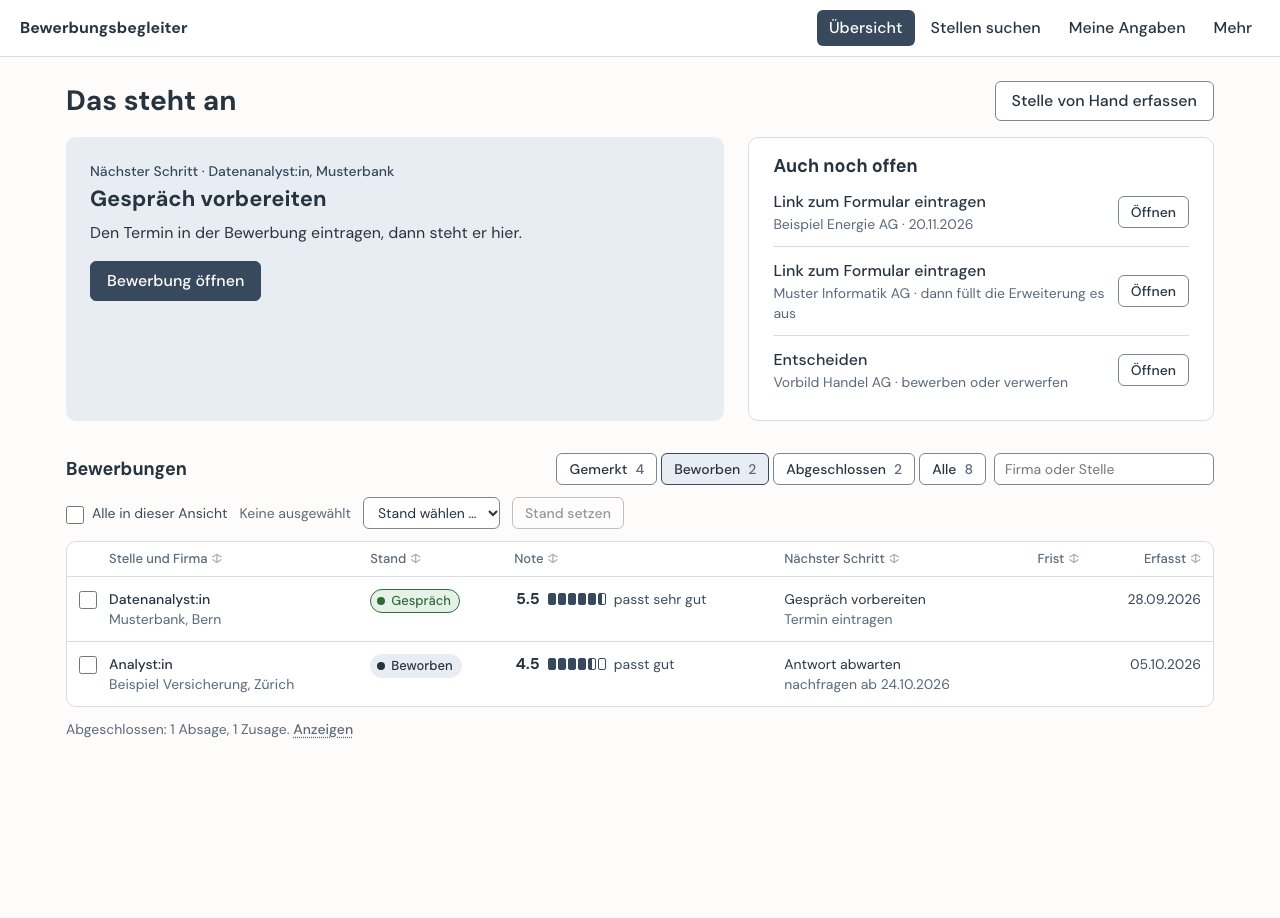
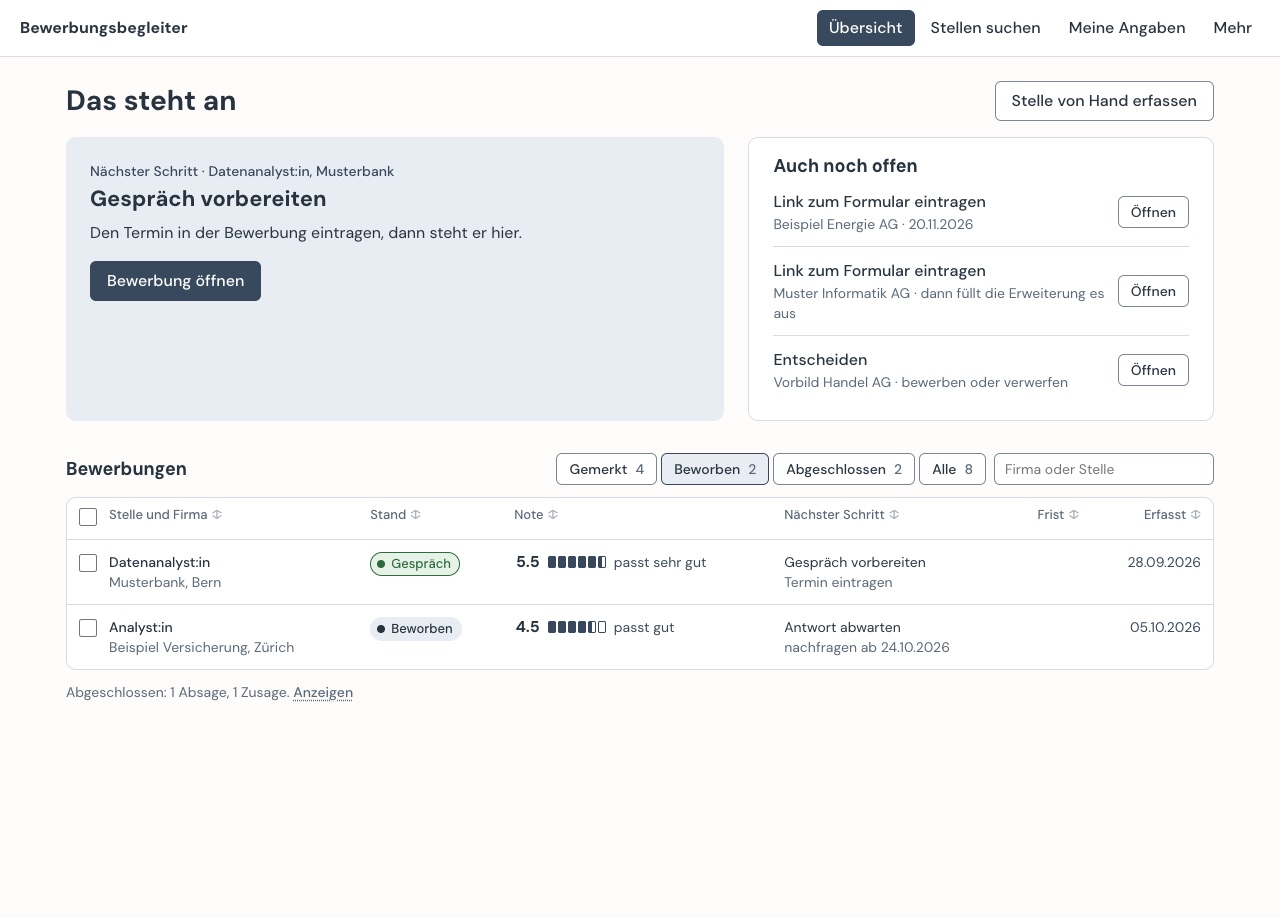
fix(bewerbungen): show only what is due on application, overview [#222] (#166)
Pullboard-Item: #222

diff --git a/bewerbungen/seiten/uebersicht.html b/bewerbungen/seiten/uebersicht.html
@@ -9,7 +9,7 @@
 <link rel="stylesheet" href="/stil.css">
 </head>
 <body>
-<nav class="app-nav" aria-label="Hauptnavigation"><a class="app-nav__brand" href="/">Bewerbungsbegleiter</a><ul class="app-nav__list"><li><a class="app-nav__link" href="/">Übersicht</a></li><li><a class="app-nav__link" href="/treffer" data-text="nav.suche">Stellen suchen</a></li><li><a class="app-nav__link" href="/angaben">Meine Angaben</a></li></ul><details class="app-nav__more"><summary>Mehr</summary><div class="menu"><div class="menu__group"><p class="menu__heading">Suche</p><a href="/firmen" data-text="nav.firmen">Firmen</a></div><div class="menu__group"><p class="menu__heading">Unterlagen</p><a href="/dateien">Meine Dateien</a><a href="/entwuerfe">Entwürfe und Versionen</a><a href="/foto">Foto</a></div><div class="menu__group"><p class="menu__heading">Hilfe</p><a href="/fragen">Fragen an die KI</a><a href="/einrichtung">Einrichtung</a></div><div class="menu__group"><p class="menu__heading">Für Geübte</p><a href="/inhalte">Inhalte als Text</a><a href="/einstellungen">Erweiterte Einstellungen</a></div><div class="menu__group" id="menu-app"></div></div></details></nav>
+<nav class="app-nav" aria-label="Hauptnavigation"><a class="app-nav__brand" href="/">Bewerbungsbegleiter</a><ul class="app-nav__list"><li><a class="app-nav__link" href="/">Übersicht</a></li><li><a class="app-nav__link" href="/treffer" data-text="nav.suche">Stellen suchen</a></li><li><a class="app-nav__link" href="/angaben">Meine Angaben</a></li></ul><details class="app-nav__more"><summary>Mehr</summary><div class="menu"><div class="menu__group"><p class="menu__heading">Suche</p><a href="/firmen" data-text="nav.firmen">Firmen</a></div><div class="menu__group"><p class="menu__heading">Unterlagen</p><a href="/dateien">Meine Dateien</a><a href="/entwuerfe">Entwürfe und Versionen</a><a href="/foto">Foto</a></div><div class="menu__group"><p class="menu__heading">Hilfe</p><a href="/fragen">Fragen an die KI</a></div><div class="menu__group"><p class="menu__heading">Für Geübte</p><a href="/inhalte">Inhalte als Text</a><a href="/einrichtung">Einrichtung</a><a href="/einstellungen">Erweiterte Einstellungen</a></div><div class="menu__group" id="menu-app"></div></div></details></nav>
 <main class="overview">
   <!-- First start: no CV and no application yet -->
   <section id="erststart" class="overview__start" hidden>
@@ -22,7 +22,7 @@
         <p class="next-step__eyebrow">Nächster Schritt</p>
         <h2 class="next-step__title" id="start-titel">Meine Angaben erfassen</h2>
         <p class="next-step__text" data-text="uebersicht.start.karte">Lebenslauf, gesuchte Stellen und wie Sie schreiben. Das dauert etwa 20 Minuten. Sie können jederzeit unterbrechen, nichts geht verloren.</p>
-        <div class="btn-row"><a class="btn btn--primary" href="/angaben">Angaben erfassen</a><a class="btn btn--quiet" href="/dateien">Ich habe schon einen Lebenslauf als PDF</a></div>
+        <div class="btn-row"><a class="btn btn--primary" href="/angaben">Angaben erfassen</a><a class="btn btn--quiet" href="/angaben#feld=unterlagen">Ich habe schon einen Lebenslauf als PDF</a></div>
         <p class="next-step__after" data-text="uebersicht.start.fuss">Ihre Angaben bleiben auf diesem Computer.</p>
       </section>
       <section class="overview__how" aria-labelledby="wie-titel">
@@ -79,18 +79,18 @@
         <input class="input overview__search" id="suche" type="search" autocomplete="off">
       </div>
     </div>
-    <div class="overview__bulk" id="auswahl-leiste" role="group" aria-label="Stand der ausgewählten Bewerbungen ändern">
-      <label class="check overview__bulk-all"><input type="checkbox" id="alle-waehlen"> Alle in dieser Ansicht</label>
-      <span class="overview__bulk-count" id="auswahl-zahl" role="status" aria-live="polite">Keine ausgewählt</span>
+    <div class="overview__bulk" id="auswahl-leiste" role="group" aria-label="Stand der ausgewählten Bewerbungen ändern" hidden>
+      <span class="overview__bulk-count" id="auswahl-zahl" role="status" aria-live="polite"></span>
       <label class="visually-hidden" for="stand-wahl">Neuer Stand</label>
       <select class="input overview__bulk-stage" id="stand-wahl"><option value="">Stand wählen …</option></select>
       <button type="button" class="btn btn--sm" id="stand-setzen">Stand setzen</button>
+      <label class="check overview__bulk-all"><input type="checkbox" id="alle-waehlen"> Alle in dieser Ansicht</label>
     </div>
     <p id="liste-leer" class="overview__empty" data-text="uebersicht.liste-leer" hidden>Noch keine Bewerbungen. Übernehmen Sie eine Stelle aus der Suche oder erfassen Sie eine von Hand.</p>
     <p id="nichts-gefunden" class="overview__empty" hidden>Keine Bewerbung passt zu dieser Suche.</p>
     <div class="table-wrap" id="tabelle">
       <table class="table">
-        <thead><tr><th class="table__pick"><span class="visually-hidden">Auswahl</span></th><th data-spalte="stelle"><button type="button" class="table__sort" data-text="uebersicht.spalte">Stelle und Firma</button></th><th data-spalte="stand"><button type="button" class="table__sort">Stand</button></th><th data-spalte="note"><button type="button" class="table__sort">Note</button></th><th data-spalte="schritt"><button type="button" class="table__sort">Nächster Schritt</button></th><th class="num" data-spalte="frist"><button type="button" class="table__sort">Frist</button></th><th class="num" data-spalte="erfasst"><button type="button" class="table__sort">Erfasst</button></th></tr></thead>
+        <thead><tr><th class="table__pick"><input type="checkbox" id="alle-kopf" aria-label="Alle in dieser Ansicht auswählen"></th><th data-spalte="stelle"><button type="button" class="table__sort" data-text="uebersicht.spalte">Stelle und Firma</button></th><th data-spalte="stand"><button type="button" class="table__sort">Stand</button></th><th data-spalte="note"><button type="button" class="table__sort">Note</button></th><th data-spalte="schritt"><button type="button" class="table__sort">Nächster Schritt</button></th><th class="num" data-spalte="frist"><button type="button" class="table__sort">Frist</button></th><th class="num" data-spalte="erfasst"><button type="button" class="table__sort">Erfasst</button></th></tr></thead>
         <tbody id="liste"></tbody>
       </table>
     </div>

diff --git a/bewerbungen/seiten/angaben.html b/bewerbungen/seiten/angaben.html
@@ -3,7 +3,7 @@
 <head>
 <meta charset="utf-8">
 <meta name="viewport" content="width=device-width, initial-scale=1">
-<meta http-equiv="Content-Security-Policy" content="default-src 'none'; script-src 'self' 'sha256-76O2eCISQMxtkS1r+WK327qrdvfBixb7boH38dMotZY='; style-src 'sha256-K9vgZME/gsvfuhmNlgJWpBRI4dX/C02VJ9dsCJl69ho='; font-src 'self'; img-src 'self'; connect-src 'self'; form-action 'none'; base-uri 'none'">
+<meta http-equiv="Content-Security-Policy" content="default-src 'none'; script-src 'self' 'sha256-sTlsNAcjhuKyHKUJe9E+pzWVOZNLpiWKzAMVjPLpBq4='; style-src 'sha256-EwuQ4HTzI1f3F95zrfneLrbV9IcpolRmZtCgJU113lk='; font-src 'self'; img-src 'self'; connect-src 'self'; form-action 'none'; base-uri 'none'">
 <meta name="referrer" content="no-referrer">
 <meta name="token" content="__TOKEN__">
 <meta name="bewerbungsbegleiter" content="app">
@@ -244,7 +244,7 @@ button { font: inherit; cursor: pointer; }
 .app-nav__more > summary { list-style: none; }
 .app-nav__more > summary::-webkit-details-marker { display: none; }
 .menu { position: absolute; right: 0; top: calc(100% + 6px); z-index: 10; min-width: 240px; padding: 8px; border: 1px solid var(--line); border-radius: var(--radius); background: var(--surface); box-shadow: 0 6px 18px rgba(0, 0, 0, 0.15); }
-.menu__group:empty { display: none; }
+.menu__group:empty, .menu__group:not(:has(a, button)) { display: none; }  /* Hilfe without the questions page (#222) */
 .menu__group + .menu__group { margin-top: 8px; padding-top: 8px; border-top: 1px solid var(--line); }
 .menu__heading { margin: 0; padding: 4px 8px; font-size: 13px; line-height: 18px; font-weight: 500; color: var(--muted); }
 .menu a, .menu button { display: block; width: 100%; padding: 6px 8px; border: 0; border-radius: 4px; background: none; color: var(--text-strong); font: inherit; text-align: left; text-decoration: none; cursor: pointer; }
@@ -270,7 +270,7 @@ button { font: inherit; cursor: pointer; }
 </style>
 </head>
 <body>
-<nav class="app-nav" aria-label="Hauptnavigation"><a class="app-nav__brand" href="/">Bewerbungsbegleiter</a><ul class="app-nav__list"><li><a class="app-nav__link" href="/">Übersicht</a></li><li><a class="app-nav__link" href="/treffer" data-text="nav.suche">Stellen suchen</a></li><li><a class="app-nav__link" href="/angaben">Meine Angaben</a></li></ul><details class="app-nav__more"><summary>Mehr</summary><div class="menu"><div class="menu__group"><p class="menu__heading">Suche</p><a href="/firmen" data-text="nav.firmen">Firmen</a></div><div class="menu__group"><p class="menu__heading">Unterlagen</p><a href="/dateien">Meine Dateien</a><a href="/entwuerfe">Entwürfe und Versionen</a><a href="/foto">Foto</a></div><div class="menu__group"><p class="menu__heading">Hilfe</p><a href="/fragen">Fragen an die KI</a><a href="/einrichtung">Einrichtung</a></div><div class="menu__group"><p class="menu__heading">Für Geübte</p><a href="/inhalte">Inhalte als Text</a><a href="/einstellungen">Erweiterte Einstellungen</a></div><div class="menu__group" id="menu-app"></div></div></details></nav>
+<nav class="app-nav" aria-label="Hauptnavigation"><a class="app-nav__brand" href="/">Bewerbungsbegleiter</a><ul class="app-nav__list"><li><a class="app-nav__link" href="/">Übersicht</a></li><li><a class="app-nav__link" href="/treffer" data-text="nav.suche">Stellen suchen</a></li><li><a class="app-nav__link" href="/angaben">Meine Angaben</a></li></ul><details class="app-nav__more"><summary>Mehr</summary><div class="menu"><div class="menu__group"><p class="menu__heading">Suche</p><a href="/firmen" data-text="nav.firmen">Firmen</a></div><div class="menu__group"><p class="menu__heading">Unterlagen</p><a href="/dateien">Meine Dateien</a><a href="/entwuerfe">Entwürfe und Versionen</a><a href="/foto">Foto</a></div><div class="menu__group"><p class="menu__heading">Hilfe</p><a href="/fragen">Fragen an die KI</a></div><div class="menu__group"><p class="menu__heading">Für Geübte</p><a href="/inhalte">Inhalte als Text</a><a href="/einrichtung">Einrichtung</a><a href="/einstellungen">Erweiterte Einstellungen</a></div><div class="menu__group" id="menu-app"></div></div></details></nav>
 <main class="layout">
   <div class="side">
     <h1>Meine Angaben</h1>
@@ -2341,6 +2341,7 @@ function setStatus(message) {
 }
 
 const TAKE_OVER_TARGET = "uebernehmen";
+const UPLOAD_TARGET = "unterlagen"; // the Übersicht leads here with a CV as PDF (#222): the upload on the start
 const WANTED_NOTE = "Hier ergänzen. Es zählt für die Suche, sobald es unter „Übernehmen“ abgeschlossen ist.";
 let notTakenOver = false;
 let profileHint = false;
@@ -2478,6 +2479,7 @@ function openFromAddress() {
   const wanted = new URLSearchParams(window.location.hash.slice(1)).get("feld");
   if (!backend || !wanted) return;
   window.history.replaceState(null, "", window.location.pathname + window.location.search);
+  if (wanted === UPLOAD_TARGET) return openUploads();
   if (!state.track || (!pageStateFound && existingBasics.length)) {
     // Imported files without a state of this page: starting over here would ask for everything again.
     profileHint = existingBasics.length > 0;
@@ -2493,6 +2495,15 @@ function openFromAddress() {
   field.prepend(el("p", { className: "wanted-note" }, WANTED_NOTE));
   field.scrollIntoView({ block: "center" });
   (field.querySelector("input, textarea, select") || field).focus();
+}
+
+/** The start holds the upload in the app; its first category is the CV the person already has. */
+function openUploads() {
+  goTo(0);
+  const button = document.querySelector(`[data-category="${form.documents.categories[0].id}"]`);
+  if (!button) return;
+  button.closest("fieldset").scrollIntoView({ block: "center" });
+  button.focus();
 }
 
 const TRACK_WORDS = { job: "eine Stelle", apprenticeship: "eine Lehrstelle" };

diff --git a/bewerbungen/seiten/bewerbung.html b/bewerbungen/seiten/bewerbung.html
@@ -8,7 +8,7 @@
 <link rel="stylesheet" href="/stil.css">
 </head>
 <body>
-<nav class="app-nav" aria-label="Hauptnavigation"><a class="app-nav__brand" href="/">Bewerbungsbegleiter</a><ul class="app-nav__list"><li><a class="app-nav__link" href="/">Übersicht</a></li><li><a class="app-nav__link" href="/treffer" data-text="nav.suche">Stellen suchen</a></li><li><a class="app-nav__link" href="/angaben">Meine Angaben</a></li></ul><details class="app-nav__more"><summary>Mehr</summary><div class="menu"><div class="menu__group"><p class="menu__heading">Suche</p><a href="/firmen" data-text="nav.firmen">Firmen</a></div><div class="menu__group"><p class="menu__heading">Unterlagen</p><a href="/dateien">Meine Dateien</a><a href="/entwuerfe">Entwürfe und Versionen</a><a href="/foto">Foto</a></div><div class="menu__group"><p class="menu__heading">Hilfe</p><a href="/fragen">Fragen an die KI</a><a href="/einrichtung">Einrichtung</a></div><div class="menu__group"><p class="menu__heading">Für Geübte</p><a href="/inhalte">Inhalte als Text</a><a href="/einstellungen">Erweiterte Einstellungen</a></div><div class="menu__group" id="menu-app"></div></div></details></nav>
+<nav class="app-nav" aria-label="Hauptnavigation"><a class="app-nav__brand" href="/">Bewerbungsbegleiter</a><ul class="app-nav__list"><li><a class="app-nav__link" href="/">Übersicht</a></li><li><a class="app-nav__link" href="/treffer" data-text="nav.suche">Stellen suchen</a></li><li><a class="app-nav__link" href="/angaben">Meine Angaben</a></li></ul><details class="app-nav__more"><summary>Mehr</summary><div class="menu"><div class="menu__group"><p class="menu__heading">Suche</p><a href="/firmen" data-text="nav.firmen">Firmen</a></div><div class="menu__group"><p class="menu__heading">Unterlagen</p><a href="/dateien">Meine Dateien</a><a href="/entwuerfe">Entwürfe und Versionen</a><a href="/foto">Foto</a></div><div class="menu__group"><p class="menu__heading">Hilfe</p><a href="/fragen">Fragen an die KI</a></div><div class="menu__group"><p class="menu__heading">Für Geübte</p><a href="/inhalte">Inhalte als Text</a><a href="/einrichtung">Einrichtung</a><a href="/einstellungen">Erweiterte Einstellungen</a></div><div class="menu__group" id="menu-app"></div></div></details></nav>
 <main class="application">
   <a href="/" class="zurueck" id="zurueck">← Zurück zur Übersicht</a>
   <header class="application__head">
@@ -110,7 +110,7 @@
           <div class="btn-row"><button type="button" class="btn btn--sm" id="dossier-entwerfen" disabled>Von der KI entwerfen</button><button type="button" class="btn btn--sm" id="dossier-speichern">Texte speichern</button></div>
           <div id="dossier-status" class="status" role="status" aria-live="polite"></div>
         </div>
-        <div class="btn-row"><button type="button" class="btn" id="erstellen">Unterlagen erstellen</button><button type="button" class="btn btn--quiet" id="pruefen">Erneut prüfen</button></div>
+        <div class="btn-row"><button type="button" class="btn" id="erstellen">Unterlagen erstellen</button><button type="button" class="btn btn--quiet" id="pruefen" hidden>Erneut prüfen</button></div>
         <ul class="befunde" id="befunde"></ul>
         <div class="pdfs" id="pdfs"></div>
         <h3>Beilagen</h3>
@@ -129,7 +129,7 @@
         <div id="versand-info"></div>
         <div id="versand-form">
           <h3 id="versand-titel">Versand erfassen</h3>
-          <p class="field__hint">Nach dem Abschicken von Hand (E-Mail, Post) oder wenn die Leiste im Formular nicht gefragt hat: Die Fassungen werden unter <code>versendet/</code> abgelegt, die Entwürfe als genutzt markiert und alles eingefroren.</p>
+          <p class="field__hint" id="versand-hinweis">Nach dem Abschicken von Hand (E-Mail, Post) oder wenn die Leiste im Formular nicht gefragt hat. Die verschickte Fassung bleibt gespeichert.</p>
           <div class="application__fields">
             <div class="field"><label class="field__label" for="v-datum">Versendet am</label><input class="input" id="v-datum" type="date"></div>
             <div class="field"><label class="field__label" for="v-art">Art</label><select class="input" id="v-art"><option>elektronisch</option><option>schriftlich</option><option>persönlich</option><option>telefonisch</option></select></div>

diff --git a/bewerbungen/seiten/einwilligung.js b/bewerbungen/seiten/einwilligung.js
@@ -1,7 +1,9 @@
 "use strict";
-// Consent before the first AI call (MIN-401): the same block on the setup, application and settings page.
+// Consent before the first AI call (MIN-401): the full block in the setup, elsewhere one line that opens it (#222).
 window.Einwilligung = (() => {
   const { senden, el, fragenLink } = window.App;
+  const AUS = "Die KI ist noch aus.";
+  const EINSCHALTEN = "KI einschalten";
 
   function link(stand) {
     return stand.link ? el("p", {}, el("a", { href: stand.link, target: "_blank", rel: "noopener" }, "Datenschutzerklärung lesen")) : null;
@@ -24,8 +26,8 @@ window.Einwilligung = (() => {
     return stand.code_wartet ? el("p", {}, "Der Einladungscode aus dem Link wird danach eingelöst.") : null;
   }
 
-  /** Fills `ort` with the text to agree to; `fertig` gets the new AI status once it is given. */
-  function zeige(ort, stand, fertig) {
+  /** The text to agree to with its tick and button, the same wherever it shows (G14). */
+  function teile(stand, fertig) {
     const haken = el("input", { type: "checkbox" });
     const knopf = el("button", { type: "button", class: "btn btn--primary" }, "Einwilligen");
     const meldung = el("p", { class: "status-line", role: "status", "aria-live": "polite" });
@@ -40,10 +42,37 @@ window.Einwilligung = (() => {
         knopf.disabled = !haken.checked;
       }
     });
-    const teile = [link(stand), el("label", { class: "schalter" }, haken, " ", stand.text), ersetzt(), grenzen(), wartenderCode(stand), knopf, meldung];
-    ort.replaceChildren(...teile.filter(Boolean));
+    return { text: [link(stand), el("label", { class: "schalter" }, haken, " ", stand.text), ersetzt(), grenzen(), wartenderCode(stand)].filter(Boolean),
+      knopf, meldung };
+  }
+
+  /** Fills `ort` with the text to agree to; `fertig` gets the new AI status once it is given. Used by the setup. */
+  function zeige(ort, stand, fertig) {
+    const { text, knopf, meldung } = teile(stand, fertig);
+    ort.replaceChildren(...text, knopf, meldung);
     ort.hidden = false;
   }
 
-  return { zeige, link };
+  /**
+   * Outside the setup the consent is no block in the middle of the work: one line with „KI einschalten“, which opens
+   * the unchanged text in a dialog. `fertig` gets the new AI status once it is given, after the dialog closed.
+   */
+  function zeile(ort, stand, fertig) {
+    const titel = `einwilligung-titel-${ort.id || "zeile"}`;
+    const dialog = el("dialog", { class: "dialog einwilligung", "aria-labelledby": titel });
+    const { text, knopf, meldung } = teile(stand, neu => {
+      dialog.close();
+      fertig(neu);
+    });
+    const abbrechen = el("button", { type: "button", class: "btn" }, "Abbrechen");
+    abbrechen.addEventListener("click", () => dialog.close());
+    dialog.replaceChildren(el("h2", { class: "dialog__title", id: titel }, EINSCHALTEN), ...text, meldung,
+      el("div", { class: "dialog__actions" }, abbrechen, knopf));
+    const oeffnen = el("button", { type: "button", class: "btn btn--sm" }, EINSCHALTEN);
+    oeffnen.addEventListener("click", () => dialog.showModal());
+    ort.replaceChildren(el("p", { class: "einwilligung__zeile" }, `${AUS} `, oeffnen), dialog);
+    ort.hidden = false;
+  }
+
+  return { zeige, zeile, link, AUS, EINSCHALTEN };
 })();

diff --git a/onboarding/dist/einstieg.html b/onboarding/dist/einstieg.html
@@ -3,7 +3,7 @@
 <head>
 <meta charset="utf-8">
 <meta name="viewport" content="width=device-width, initial-scale=1">
-<meta http-equiv="Content-Security-Policy" content="default-src 'none'; script-src 'sha256-8L4VQYV0ZhWjzMWc/DpVphZCo4w3+NLt1VhwVjZv4DA='; style-src 'sha256-XcIPIRDgJm4nIcuG11CgURlnSGDDR/rO4GI75vq+kb8='; font-src 'none'; img-src 'none'; connect-src 'none'; form-action 'none'; base-uri 'none'">
+<meta http-equiv="Content-Security-Policy" content="default-src 'none'; script-src 'sha256-+5tmzKdcdybLaodonM1pD4Ca4kZpIDLgImH9qeeZKd0='; style-src 'sha256-XcIPIRDgJm4nIcuG11CgURlnSGDDR/rO4GI75vq+kb8='; font-src 'none'; img-src 'none'; connect-src 'none'; form-action 'none'; base-uri 'none'">
 <meta name="referrer" content="no-referrer">
 
 <title>Einstieg – Bewerbungsbegleiter</title>
@@ -2025,6 +2025,7 @@ function setStatus(message) {
 }
 
 const TAKE_OVER_TARGET = "uebernehmen";
+const UPLOAD_TARGET = "unterlagen"; // the Übersicht leads here with a CV as PDF (#222): the upload on the start
 const WANTED_NOTE = "Hier ergänzen. Es zählt für die Suche, sobald es unter „Übernehmen“ abgeschlossen ist.";
 let notTakenOver = false;
 let profileHint = false;
@@ -2162,6 +2163,7 @@ function openFromAddress() {
   const wanted = new URLSearchParams(window.location.hash.slice(1)).get("feld");
   if (!backend || !wanted) return;
   window.history.replaceState(null, "", window.location.pathname + window.location.search);
+  if (wanted === UPLOAD_TARGET) return openUploads();
   if (!state.track || (!pageStateFound && existingBasics.length)) {
     // Imported files without a state of this page: starting over here would ask for everything again.
     profileHint = existingBasics.length > 0;
@@ -2177,6 +2179,15 @@ function openFromAddress() {
   field.prepend(el("p", { className: "wanted-note" }, WANTED_NOTE));
   field.scrollIntoView({ block: "center" });
   (field.querySelector("input, textarea, select") || field).focus();
+}
+
+/** The start holds the upload in the app; its first category is the CV the person already has. */
+function openUploads() {
+  goTo(0);
+  const button = document.querySelector(`[data-category="${form.documents.categories[0].id}"]`);
+  if (!button) return;
+  button.closest("fieldset").scrollIntoView({ block: "center" });
+  button.focus();
 }
 
 const TRACK_WORDS = { job: "eine Stelle", apprenticeship: "eine Lehrstelle" };

diff --git a/bewerbungen/seiten/firmen.html b/bewerbungen/seiten/firmen.html
@@ -10,7 +10,7 @@
 <link rel="stylesheet" href="/firmen.css">
 </head>
 <body>
-<nav class="app-nav" aria-label="Hauptnavigation"><a class="app-nav__brand" href="/">Bewerbungsbegleiter</a><ul class="app-nav__list"><li><a class="app-nav__link" href="/">Übersicht</a></li><li><a class="app-nav__link" href="/treffer" data-text="nav.suche">Stellen suchen</a></li><li><a class="app-nav__link" href="/angaben">Meine Angaben</a></li></ul><details class="app-nav__more"><summary>Mehr</summary><div class="menu"><div class="menu__group"><p class="menu__heading">Suche</p><a href="/firmen" data-text="nav.firmen">Firmen</a></div><div class="menu__group"><p class="menu__heading">Unterlagen</p><a href="/dateien">Meine Dateien</a><a href="/entwuerfe">Entwürfe und Versionen</a><a href="/foto">Foto</a></div><div class="menu__group"><p class="menu__heading">Hilfe</p><a href="/fragen">Fragen an die KI</a><a href="/einrichtung">Einrichtung</a></div><div class="menu__group"><p class="menu__heading">Für Geübte</p><a href="/inhalte">Inhalte als Text</a><a href="/einstellungen">Erweiterte Einstellungen</a></div><div class="menu__group" id="menu-app"></div></div></details></nav>
+<nav class="app-nav" aria-label="Hauptnavigation"><a class="app-nav__brand" href="/">Bewerbungsbegleiter</a><ul class="app-nav__list"><li><a class="app-nav__link" href="/">Übersicht</a></li><li><a class="app-nav__link" href="/treffer" data-text="nav.suche">Stellen suchen</a></li><li><a class="app-nav__link" href="/angaben">Meine Angaben</a></li></ul><details class="app-nav__more"><summary>Mehr</summary><div class="menu"><div class="menu__group"><p class="menu__heading">Suche</p><a href="/firmen" data-text="nav.firmen">Firmen</a></div><div class="menu__group"><p class="menu__heading">Unterlagen</p><a href="/dateien">Meine Dateien</a><a href="/entwuerfe">Entwürfe und Versionen</a><a href="/foto">Foto</a></div><div class="menu__group"><p class="menu__heading">Hilfe</p><a href="/fragen">Fragen an die KI</a></div><div class="menu__group"><p class="menu__heading">Für Geübte</p><a href="/inhalte">Inhalte als Text</a><a href="/einrichtung">Einrichtung</a><a href="/einstellungen">Erweiterte Einstellungen</a></div><div class="menu__group" id="menu-app"></div></div></details></nav>
 <main class="page companies-page">
   <header class="companies-page__head">
     <h1 id="titel" data-text="firmen.titel">Firmen</h1>

diff --git a/bewerbungen/seiten/entwuerfe.html b/bewerbungen/seiten/entwuerfe.html
@@ -8,7 +8,7 @@
 <link rel="stylesheet" href="/stil.css">
 </head>
 <body>
-<nav class="app-nav" aria-label="Hauptnavigation"><a class="app-nav__brand" href="/">Bewerbungsbegleiter</a><ul class="app-nav__list"><li><a class="app-nav__link" href="/">Übersicht</a></li><li><a class="app-nav__link" href="/treffer" data-text="nav.suche">Stellen suchen</a></li><li><a class="app-nav__link" href="/angaben">Meine Angaben</a></li></ul><details class="app-nav__more"><summary>Mehr</summary><div class="menu"><div class="menu__group"><p class="menu__heading">Suche</p><a href="/firmen" data-text="nav.firmen">Firmen</a></div><div class="menu__group"><p class="menu__heading">Unterlagen</p><a href="/dateien">Meine Dateien</a><a href="/entwuerfe">Entwürfe und Versionen</a><a href="/foto">Foto</a></div><div class="menu__group"><p class="menu__heading">Hilfe</p><a href="/fragen">Fragen an die KI</a><a href="/einrichtung">Einrichtung</a></div><div class="menu__group"><p class="menu__heading">Für Geübte</p><a href="/inhalte">Inhalte als Text</a><a href="/einstellungen">Erweiterte Einstellungen</a></div><div class="menu__group" id="menu-app"></div></div></details></nav>
+<nav class="app-nav" aria-label="Hauptnavigation"><a class="app-nav__brand" href="/">Bewerbungsbegleiter</a><ul class="app-nav__list"><li><a class="app-nav__link" href="/">Übersicht</a></li><li><a class="app-nav__link" href="/treffer" data-text="nav.suche">Stellen suchen</a></li><li><a class="app-nav__link" href="/angaben">Meine Angaben</a></li></ul><details class="app-nav__more"><summary>Mehr</summary><div class="menu"><div class="menu__group"><p class="menu__heading">Suche</p><a href="/firmen" data-text="nav.firmen">Firmen</a></div><div class="menu__group"><p class="menu__heading">Unterlagen</p><a href="/dateien">Meine Dateien</a><a href="/entwuerfe">Entwürfe und Versionen</a><a href="/foto">Foto</a></div><div class="menu__group"><p class="menu__heading">Hilfe</p><a href="/fragen">Fragen an die KI</a></div><div class="menu__group"><p class="menu__heading">Für Geübte</p><a href="/inhalte">Inhalte als Text</a><a href="/einrichtung">Einrichtung</a><a href="/einstellungen">Erweiterte Einstellungen</a></div><div class="menu__group" id="menu-app"></div></div></details></nav>
 <main class="page">
   <a href="/" class="zurueck" id="zurueck">← Zurück</a>
   <header class="page__head">

diff --git a/bewerbungen/seiten/foto.html b/bewerbungen/seiten/foto.html
@@ -8,7 +8,7 @@
 <link rel="stylesheet" href="/stil.css">
 </head>
 <body>
-<nav class="app-nav" aria-label="Hauptnavigation"><a class="app-nav__brand" href="/">Bewerbungsbegleiter</a><ul class="app-nav__list"><li><a class="app-nav__link" href="/">Übersicht</a></li><li><a class="app-nav__link" href="/treffer" data-text="nav.suche">Stellen suchen</a></li><li><a class="app-nav__link" href="/angaben">Meine Angaben</a></li></ul><details class="app-nav__more"><summary>Mehr</summary><div class="menu"><div class="menu__group"><p class="menu__heading">Suche</p><a href="/firmen" data-text="nav.firmen">Firmen</a></div><div class="menu__group"><p class="menu__heading">Unterlagen</p><a href="/dateien">Meine Dateien</a><a href="/entwuerfe">Entwürfe und Versionen</a><a href="/foto">Foto</a></div><div class="menu__group"><p class="menu__heading">Hilfe</p><a href="/fragen">Fragen an die KI</a><a href="/einrichtung">Einrichtung</a></div><div class="menu__group"><p class="menu__heading">Für Geübte</p><a href="/inhalte">Inhalte als Text</a><a href="/einstellungen">Erweiterte Einstellungen</a></div><div class="menu__group" id="menu-app"></div></div></details></nav>
+<nav class="app-nav" aria-label="Hauptnavigation"><a class="app-nav__brand" href="/">Bewerbungsbegleiter</a><ul class="app-nav__list"><li><a class="app-nav__link" href="/">Übersicht</a></li><li><a class="app-nav__link" href="/treffer" data-text="nav.suche">Stellen suchen</a></li><li><a class="app-nav__link" href="/angaben">Meine Angaben</a></li></ul><details class="app-nav__more"><summary>Mehr</summary><div class="menu"><div class="menu__group"><p class="menu__heading">Suche</p><a href="/firmen" data-text="nav.firmen">Firmen</a></div><div class="menu__group"><p class="menu__heading">Unterlagen</p><a href="/dateien">Meine Dateien</a><a href="/entwuerfe">Entwürfe und Versionen</a><a href="/foto">Foto</a></div><div class="menu__group"><p class="menu__heading">Hilfe</p><a href="/fragen">Fragen an die KI</a></div><div class="menu__group"><p class="menu__heading">Für Geübte</p><a href="/inhalte">Inhalte als Text</a><a href="/einrichtung">Einrichtung</a><a href="/einstellungen">Erweiterte Einstellungen</a></div><div class="menu__group" id="menu-app"></div></div></details></nav>
 <main class="page">
   <a href="/" class="zurueck" id="zurueck">← Zurück</a>
   <header class="page__head">

diff --git a/bewerbungen/seiten/inhalte.html b/bewerbungen/seiten/inhalte.html
@@ -8,7 +8,7 @@
 <link rel="stylesheet" href="/stil.css">
 </head>
 <body>
-<nav class="app-nav" aria-label="Hauptnavigation"><a class="app-nav__brand" href="/">Bewerbungsbegleiter</a><ul class="app-nav__list"><li><a class="app-nav__link" href="/">Übersicht</a></li><li><a class="app-nav__link" href="/treffer" data-text="nav.suche">Stellen suchen</a></li><li><a class="app-nav__link" href="/angaben">Meine Angaben</a></li></ul><details class="app-nav__more"><summary>Mehr</summary><div class="menu"><div class="menu__group"><p class="menu__heading">Suche</p><a href="/firmen" data-text="nav.firmen">Firmen</a></div><div class="menu__group"><p class="menu__heading">Unterlagen</p><a href="/dateien">Meine Dateien</a><a href="/entwuerfe">Entwürfe und Versionen</a><a href="/foto">Foto</a></div><div class="menu__group"><p class="menu__heading">Hilfe</p><a href="/fragen">Fragen an die KI</a><a href="/einrichtung">Einrichtung</a></div><div class="menu__group"><p class="menu__heading">Für Geübte</p><a href="/inhalte">Inhalte als Text</a><a href="/einstellungen">Erweiterte Einstellungen</a></div><div class="menu__group" id="menu-app"></div></div></details></nav>
+<nav class="app-nav" aria-label="Hauptnavigation"><a class="app-nav__brand" href="/">Bewerbungsbegleiter</a><ul class="app-nav__list"><li><a class="app-nav__link" href="/">Übersicht</a></li><li><a class="app-nav__link" href="/treffer" data-text="nav.suche">Stellen suchen</a></li><li><a class="app-nav__link" href="/angaben">Meine Angaben</a></li></ul><details class="app-nav__more"><summary>Mehr</summary><div class="menu"><div class="menu__group"><p class="menu__heading">Suche</p><a href="/firmen" data-text="nav.firmen">Firmen</a></div><div class="menu__group"><p class="menu__heading">Unterlagen</p><a href="/dateien">Meine Dateien</a><a href="/entwuerfe">Entwürfe und Versionen</a><a href="/foto">Foto</a></div><div class="menu__group"><p class="menu__heading">Hilfe</p><a href="/fragen">Fragen an die KI</a></div><div class="menu__group"><p class="menu__heading">Für Geübte</p><a href="/inhalte">Inhalte als Text</a><a href="/einrichtung">Einrichtung</a><a href="/einstellungen">Erweiterte Einstellungen</a></div><div class="menu__group" id="menu-app"></div></div></details></nav>
 <main class="page">
   <a href="/" class="zurueck" id="zurueck">← Zurück</a>
   <header class="page__head">

diff --git a/bewerbungen/seiten/einstellungen.html b/bewerbungen/seiten/einstellungen.html
@@ -9,7 +9,7 @@
 <link rel="stylesheet" href="/stil.css">
 </head>
 <body>
-<nav class="app-nav" aria-label="Hauptnavigation"><a class="app-nav__brand" href="/">Bewerbungsbegleiter</a><ul class="app-nav__list"><li><a class="app-nav__link" href="/">Übersicht</a></li><li><a class="app-nav__link" href="/treffer" data-text="nav.suche">Stellen suchen</a></li><li><a class="app-nav__link" href="/angaben">Meine Angaben</a></li></ul><details class="app-nav__more"><summary>Mehr</summary><div class="menu"><div class="menu__group"><p class="menu__heading">Suche</p><a href="/firmen" data-text="nav.firmen">Firmen</a></div><div class="menu__group"><p class="menu__heading">Unterlagen</p><a href="/dateien">Meine Dateien</a><a href="/entwuerfe">Entwürfe und Versionen</a><a href="/foto">Foto</a></div><div class="menu__group"><p class="menu__heading">Hilfe</p><a href="/fragen">Fragen an die KI</a><a href="/einrichtung">Einrichtung</a></div><div class="menu__group"><p class="menu__heading">Für Geübte</p><a href="/inhalte">Inhalte als Text</a><a href="/einstellungen">Erweiterte Einstellungen</a></div><div class="menu__group" id="menu-app"></div></div></details></nav>
+<nav class="app-nav" aria-label="Hauptnavigation"><a class="app-nav__brand" href="/">Bewerbungsbegleiter</a><ul class="app-nav__list"><li><a class="app-nav__link" href="/">Übersicht</a></li><li><a class="app-nav__link" href="/treffer" data-text="nav.suche">Stellen suchen</a></li><li><a class="app-nav__link" href="/angaben">Meine Angaben</a></li></ul><details class="app-nav__more"><summary>Mehr</summary><div class="menu"><div class="menu__group"><p class="menu__heading">Suche</p><a href="/firmen" data-text="nav.firmen">Firmen</a></div><div class="menu__group"><p class="menu__heading">Unterlagen</p><a href="/dateien">Meine Dateien</a><a href="/entwuerfe">Entwürfe und Versionen</a><a href="/foto">Foto</a></div><div class="menu__group"><p class="menu__heading">Hilfe</p><a href="/fragen">Fragen an die KI</a></div><div class="menu__group"><p class="menu__heading">Für Geübte</p><a href="/inhalte">Inhalte als Text</a><a href="/einrichtung">Einrichtung</a><a href="/einstellungen">Erweiterte Einstellungen</a></div><div class="menu__group" id="menu-app"></div></div></details></nav>
 <main class="page page--side">
   <aside class="page__aside">
     <h1>Erweiterte Einstellungen</h1>

diff --git a/bewerbungen/seiten/fragen.html b/bewerbungen/seiten/fragen.html
@@ -9,7 +9,7 @@
 <link rel="stylesheet" href="/stil.css">
 </head>
 <body>
-<nav class="app-nav" aria-label="Hauptnavigation"><a class="app-nav__brand" href="/">Bewerbungsbegleiter</a><ul class="app-nav__list"><li><a class="app-nav__link" href="/">Übersicht</a></li><li><a class="app-nav__link" href="/treffer" data-text="nav.suche">Stellen suchen</a></li><li><a class="app-nav__link" href="/angaben">Meine Angaben</a></li></ul><details class="app-nav__more"><summary>Mehr</summary><div class="menu"><div class="menu__group"><p class="menu__heading">Suche</p><a href="/firmen" data-text="nav.firmen">Firmen</a></div><div class="menu__group"><p class="menu__heading">Unterlagen</p><a href="/dateien">Meine Dateien</a><a href="/entwuerfe">Entwürfe und Versionen</a><a href="/foto">Foto</a></div><div class="menu__group"><p class="menu__heading">Hilfe</p><a href="/fragen">Fragen an die KI</a><a href="/einrichtung">Einrichtung</a></div><div class="menu__group"><p class="menu__heading">Für Geübte</p><a href="/inhalte">Inhalte als Text</a><a href="/einstellungen">Erweiterte Einstellungen</a></div><div class="menu__group" id="menu-app"></div></div></details></nav>
+<nav class="app-nav" aria-label="Hauptnavigation"><a class="app-nav__brand" href="/">Bewerbungsbegleiter</a><ul class="app-nav__list"><li><a class="app-nav__link" href="/">Übersicht</a></li><li><a class="app-nav__link" href="/treffer" data-text="nav.suche">Stellen suchen</a></li><li><a class="app-nav__link" href="/angaben">Meine Angaben</a></li></ul><details class="app-nav__more"><summary>Mehr</summary><div class="menu"><div class="menu__group"><p class="menu__heading">Suche</p><a href="/firmen" data-text="nav.firmen">Firmen</a></div><div class="menu__group"><p class="menu__heading">Unterlagen</p><a href="/dateien">Meine Dateien</a><a href="/entwuerfe">Entwürfe und Versionen</a><a href="/foto">Foto</a></div><div class="menu__group"><p class="menu__heading">Hilfe</p><a href="/fragen">Fragen an die KI</a></div><div class="menu__group"><p class="menu__heading">Für Geübte</p><a href="/inhalte">Inhalte als Text</a><a href="/einrichtung">Einrichtung</a><a href="/einstellungen">Erweiterte Einstellungen</a></div><div class="menu__group" id="menu-app"></div></div></details></nav>
 <main class="einrichtung page">
   <header class="page__head">
     <h1>Fragen an die KI</h1>

diff --git a/bewerbungen/seiten/treffer.html b/bewerbungen/seiten/treffer.html
@@ -10,7 +10,7 @@
 <link rel="stylesheet" href="/firmen.css">
 </head>
 <body>
-<nav class="app-nav" aria-label="Hauptnavigation"><a class="app-nav__brand" href="/">Bewerbungsbegleiter</a><ul class="app-nav__list"><li><a class="app-nav__link" href="/">Übersicht</a></li><li><a class="app-nav__link" href="/treffer" data-text="nav.suche">Stellen suchen</a></li><li><a class="app-nav__link" href="/angaben">Meine Angaben</a></li></ul><details class="app-nav__more"><summary>Mehr</summary><div class="menu"><div class="menu__group"><p class="menu__heading">Suche</p><a href="/firmen" data-text="nav.firmen">Firmen</a></div><div class="menu__group"><p class="menu__heading">Unterlagen</p><a href="/dateien">Meine Dateien</a><a href="/entwuerfe">Entwürfe und Versionen</a><a href="/foto">Foto</a></div><div class="menu__group"><p class="menu__heading">Hilfe</p><a href="/fragen">Fragen an die KI</a><a href="/einrichtung">Einrichtung</a></div><div class="menu__group"><p class="menu__heading">Für Geübte</p><a href="/inhalte">Inhalte als Text</a><a href="/einstellungen">Erweiterte Einstellungen</a></div><div class="menu__group" id="menu-app"></div></div></details></nav>
+<nav class="app-nav" aria-label="Hauptnavigation"><a class="app-nav__brand" href="/">Bewerbungsbegleiter</a><ul class="app-nav__list"><li><a class="app-nav__link" href="/">Übersicht</a></li><li><a class="app-nav__link" href="/treffer" data-text="nav.suche">Stellen suchen</a></li><li><a class="app-nav__link" href="/angaben">Meine Angaben</a></li></ul><details class="app-nav__more"><summary>Mehr</summary><div class="menu"><div class="menu__group"><p class="menu__heading">Suche</p><a href="/firmen" data-text="nav.firmen">Firmen</a></div><div class="menu__group"><p class="menu__heading">Unterlagen</p><a href="/dateien">Meine Dateien</a><a href="/entwuerfe">Entwürfe und Versionen</a><a href="/foto">Foto</a></div><div class="menu__group"><p class="menu__heading">Hilfe</p><a href="/fragen">Fragen an die KI</a></div><div class="menu__group"><p class="menu__heading">Für Geübte</p><a href="/inhalte">Inhalte als Text</a><a href="/einrichtung">Einrichtung</a><a href="/einstellungen">Erweiterte Einstellungen</a></div><div class="menu__group" id="menu-app"></div></div></details></nav>
 <main class="search">
   <header class="search__head">
     <div class="search__title">
